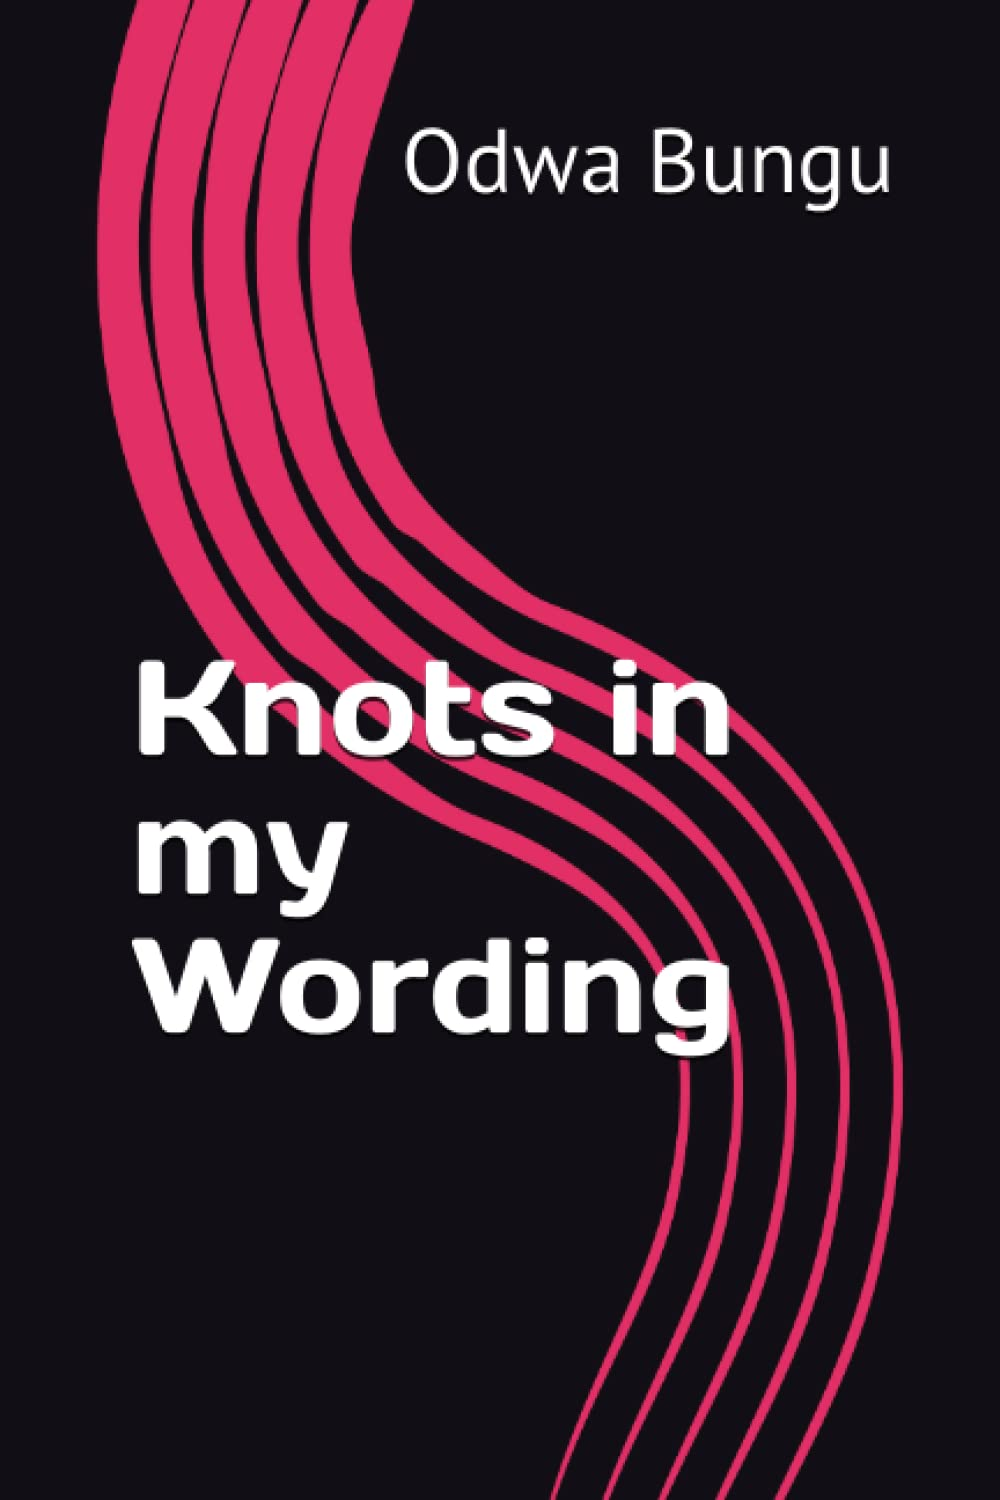
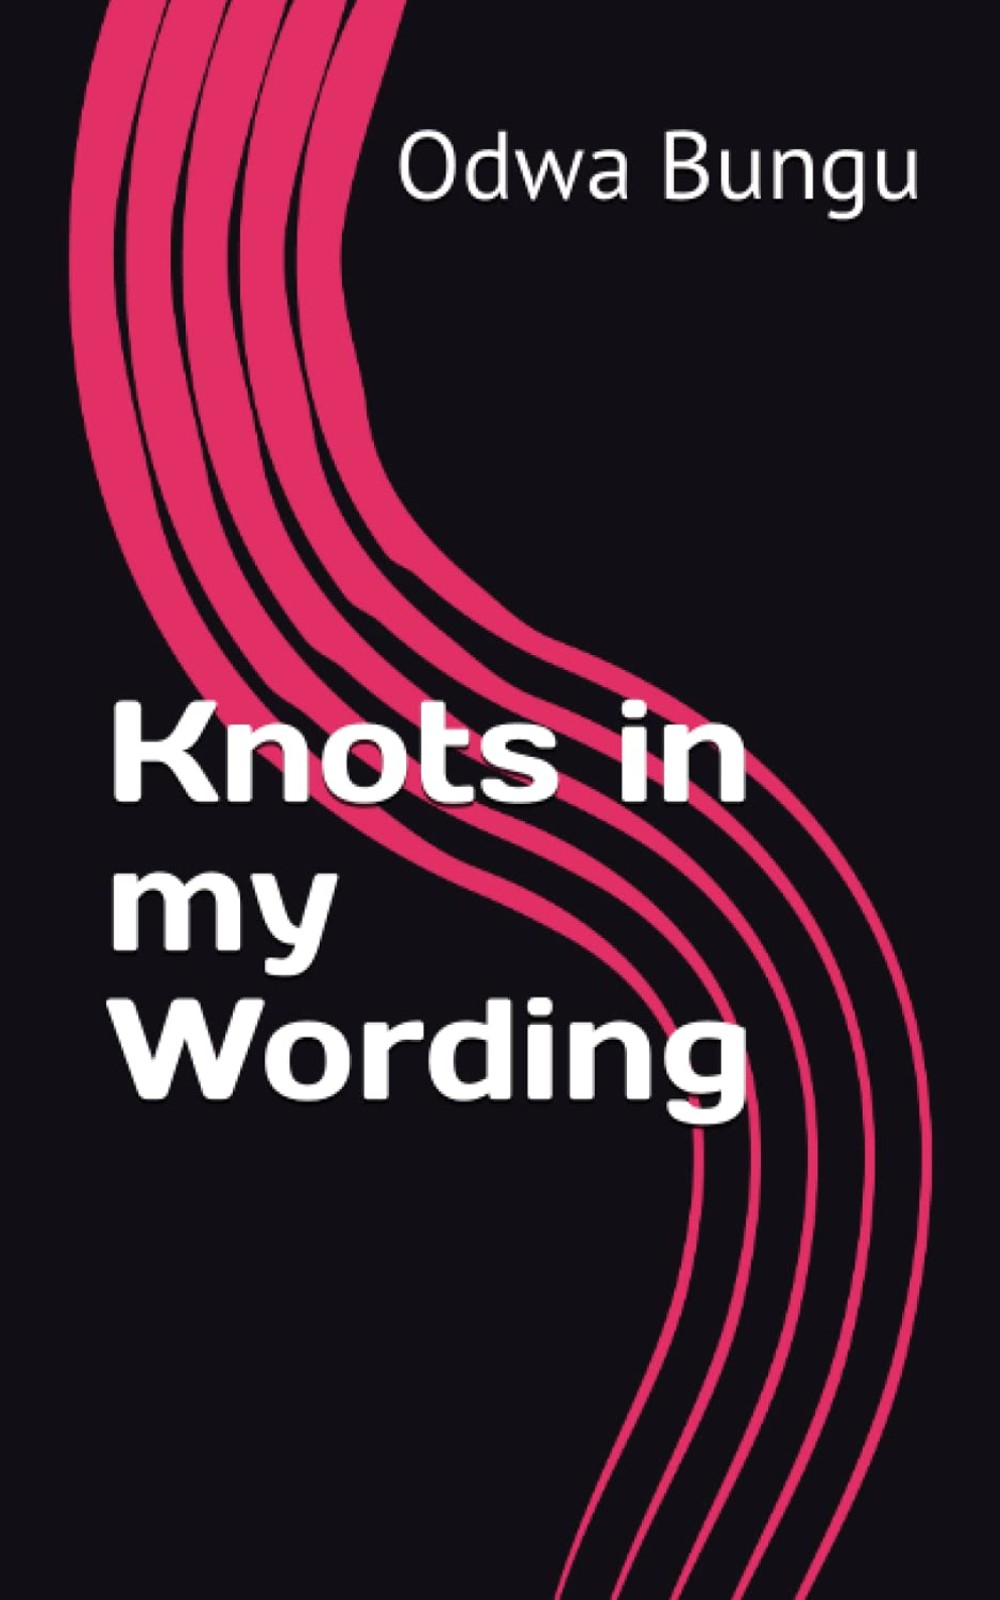
books edit

Changed region(s): [[0.062, 0.0, 0.961, 1.0]]

diff --git a/components/Books.js b/components/Books.js
@@ -4,19 +4,19 @@ import Image from 'next/image'
 function Books() {
   return (
     <main className='bg-sky-50 py-10'>
-        
+        <h3 className='text-center text-3xl font-bold underline decoration-4 underline-offset-8'>Books</h3>
         <div className='py-9 grid grid-cols-1 md:grid-cols-3 gap-14 justify-items-center px-10'>
             {/* Book component */}
-            <div className='bg-white w-[230px] h-[420px] shadow-md rounded-md flex justify-center items-start overflow-hidden'>
-                <Image src="/diluted.jpg" alt="Diluted by Odwa Bungu" width={230} height={420} />
+            <div className='bg-white w-[230px] shadow-md rounded-md flex justify-center items-start overflow-hidden'>
+                <Image src="/diluted.jpg" alt="Diluted by Odwa Bungu" width={230} height={400} />
             </div>
 
-            <div className='bg-white w-[230px] h-[420px] shadow-md rounded-md flex justify-center items-start overflow-hidden'>
-                <Image src="/doubtless.png" alt="Doubtless by Odwa Bungu" width={230} height={420}/>
+            <div className='bg-white w-[230px] shadow-md rounded-md flex justify-center items-start overflow-hidden'>
+                <Image src="/doubtless.jpg" alt="Doubtless by Odwa Bungu" width={230} height={420}/>
             </div>
 
-            <div className='bg-white w-[230px] h-[420px] shadow-md rounded-md flex justify-center items-start overflow-hidden'>
-                <Image src="/knots.jpg" alt="Knots in my Wording by Odwa Bungu" width={230} height={420}/>
+            <div className='bg-white w-[230px] shadow-md rounded-md flex justify-center items-start overflow-hidden'>
+                <Image src="/knots1.jpg" alt="Knots in my Wording by Odwa Bungu" width={230} height={400}/>
             </div>
         </div>
     </main>
